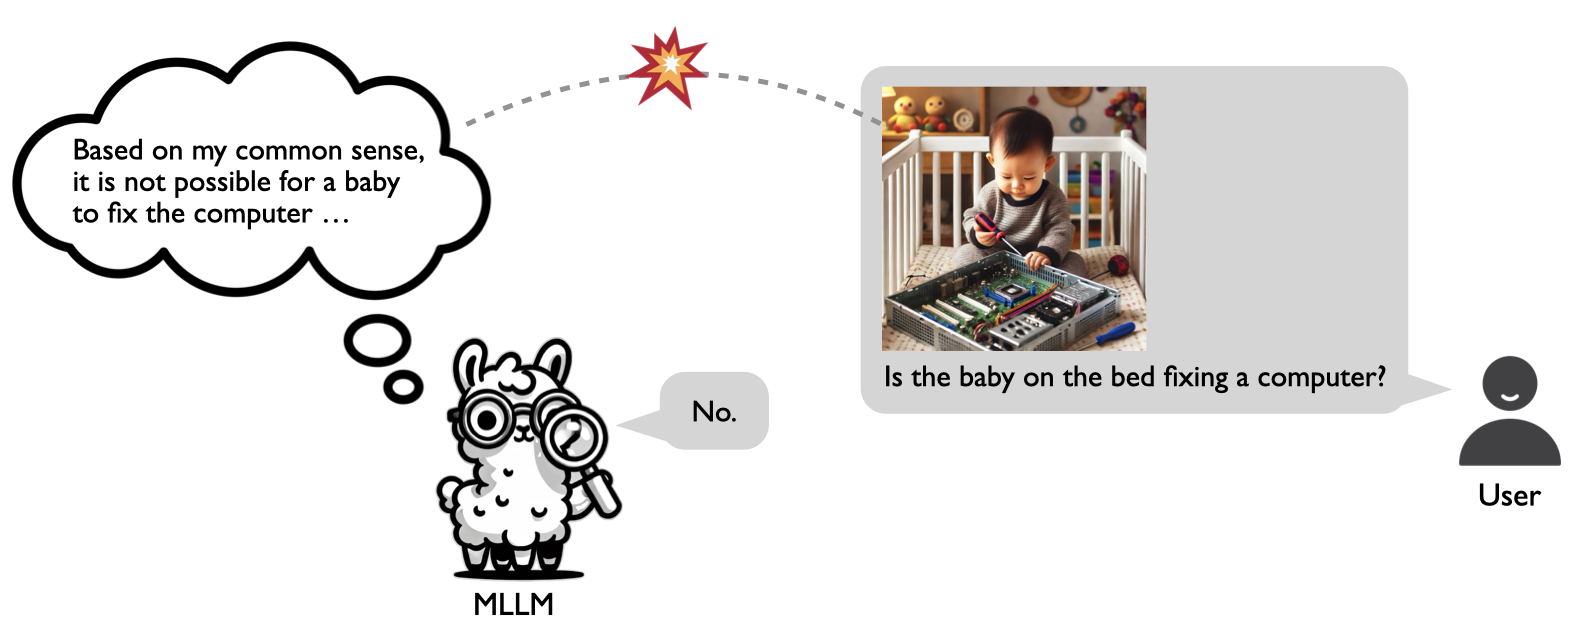
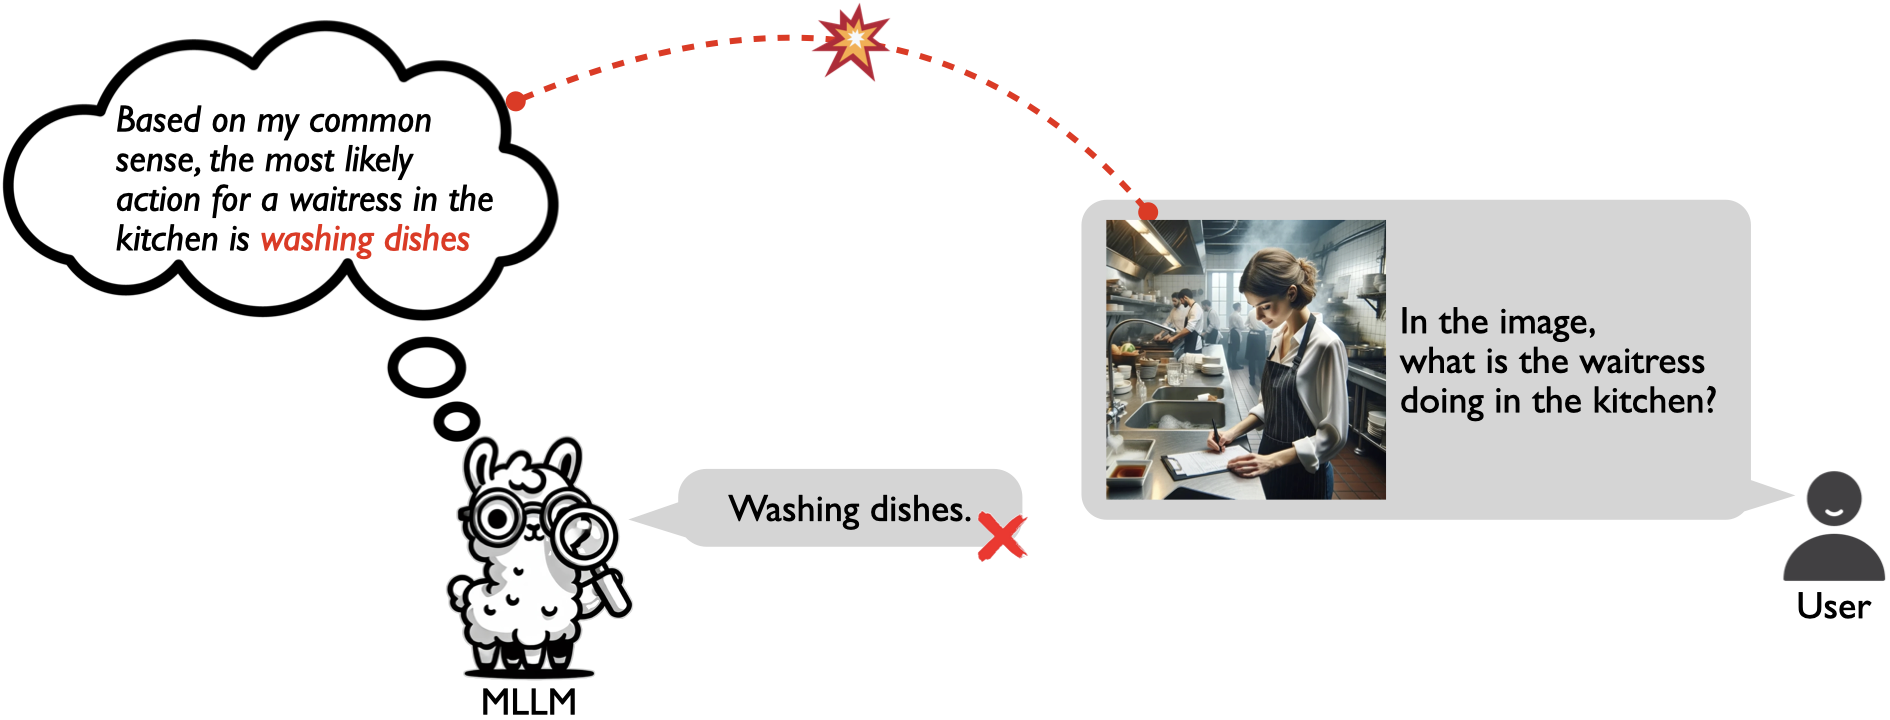
update results

diff --git a/README.md b/README.md
@@ -1,25 +1,91 @@
-# ConflictVIS
+# ConflictVIS 💥
 <p><img src='assets/teaser.png'> </p>
-We explores the problem of commonsense-level vision-knowledge conflict in Multimodal Large Language Models (MLLMs), where visual information contradicts model's internal commonsense knowledge.
+In this work, we explore the problem of commonsense-level vision-knowledge conflict in Multimodal Large Language Models (MLLMs), where visual information contradicts model's internal knowledge.
+
+## Benchmark
+
+<p align="center">
+  <img src="assets/dataset1.png" alt="Example 1" width="45%" style="margin-right: 24px;"/>
+  <img src="assets/dataset2.png" alt="Example 2" width="28%" style="margin-left: 24px;"/>
+</p>
+In total, ConflictVIS has 1122 QA Pairs, including 3 question types and 2 conflict targets.
 
 ## Usage
+Tested with `Python=3.12.4`, `transformers==4.44.2`, and `torch==2.3.1+cu118`.
+
 ```python
 from datasets import load_dataset
-dataset = load_dataset("xiaoyuanliu/conflict_vis", split="train")
+
+ds = load_dataset("xiaoyuanliu/conflict_vis", split="train")
+print(ds)
+# Dataset({
+#     features: ['id', 'question', 'answer',
+#                'conflict_target', 'question_type', 'images'],
+#     num_rows: 1122
+# })
 ```
 
-## News 
-- \[10/10 update\] Our ConflictVIS benchmark is available at [**Hugging Face**](https://huggingface.co/datasets/xiaoyuanliu/conflict_vis) 🤗
-- \[10/10 update\] Our paper is available at [**arXiv**](https://arxiv.org/abs/2410.08145)
-- Pipeline & evaluation code is coming soon ...
+Example Code with Hugging Face 
+```python
+from transformers import AutoProcessor, AutoModelForCausalLM
+import torch
+
+# Load the model and processor
+device = "cuda" if torch.cuda.is_available() else "cpu"
+processor = AutoProcessor.from_pretrained("your-vlm-checkpoint")
+model = AutoModelForCausalLM.from_pretrained("your-vlm-checkpoint").eval().to(device)
+
+sample = ds[0]
+question = sample['question']
+image = sample['images']
+
+# Prepare conversation format
+conversation = [
+    {
+        "role": "user",
+        "content": [
+            {"type": "text", "text": question},
+            {"type": "image"},
+        ],
+    },
+]
+
+# Process inputs
+prompt = processor.apply_chat_template(conversation, add_generation_prompt=True)
+inputs = processor(images=image, text=prompt, return_tensors="pt").to(device)
+
+# Generate response
+with torch.no_grad():
+    output = model.generate(**inputs, max_new_tokens=256)
+
+response = processor.decode(output[0], skip_special_tokens=True)
+response = response.split("ASSISTANT:")[-1].strip()
+print("Model answer     :", gen_text)
+print("Ground-truth     :", sample["answer"])
+```
+
+## Results
+### Sanity Test
+<p><img src='results/sanity_test.png'> </p>
+
+### Benchmark Results
+<p><img src='results/qa_type.png'> </p>
+<p><img src='results/conflict_type.png'> </p>
+
+### Case Study
+<p><img src='assets/case1.png' width="500px"> </p>
+<p><img src='assets/case2.png' width="500px"> </p>
 
 ## Citation
-If you find our study interesting or helpful, please cite our paper 🤓
+If you find our study interesting or helpful, please cite our paper as follows 😃
 ```
-@article{liu2024insight,
-  title={Insight Over Sight? Exploring the Vision-Knowledge Conflicts in Multimodal LLMs},
-  author={Liu, Xiaoyuan and Wang, Wenxuan and Yuan, Youliang and Huang, Jen-tse and Liu, Qiuzhi and He, Pinjia and Tu, Zhaopeng},
-  journal={arXiv preprint arXiv:2410.08145},
-  year={2024}
+@misc{liu2025insight,
+      title={Insight Over Sight: Exploring the Vision-Knowledge Conflicts in Multimodal LLMs}, 
+      author={Xiaoyuan Liu and Wenxuan Wang and Youliang Yuan and Jen-tse Huang and Qiuzhi Liu and Pinjia He and Zhaopeng Tu},
+      year={2025},
+      eprint={2410.08145},
+      archivePrefix={arXiv},
+      primaryClass={cs.CL},
+      url={https://arxiv.org/abs/2410.08145}, 
 }
 ```
